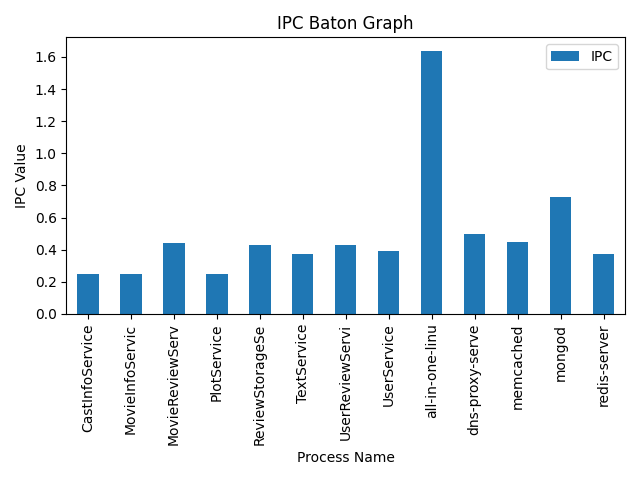
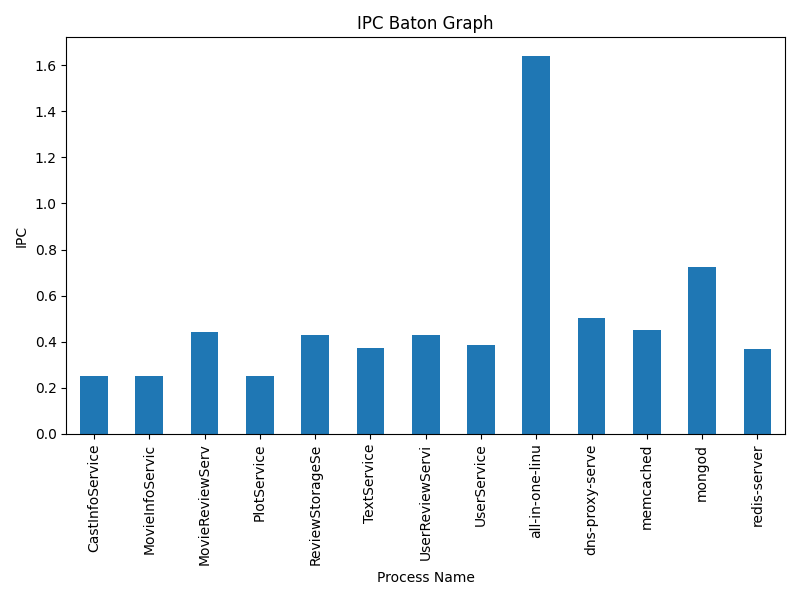
Final data aggregation script.

Changed region(s): [[0.0, 0.0, 1.0, 0.9688], [0.7188, 0.4688, 0.8438, 0.5625], [0.8438, 0.4062, 0.9062, 0.4688]]

diff --git a/aggregate_results.py b/aggregate_results.py
@@ -1,109 +1,142 @@
 import os
+import random
 import sys
 
 import matplotlib.pyplot as plt
 import pandas as pd
 
 
-def aggregate():
-    input_dir, output_file = sys.argv[1], sys.argv[2] + ".csv"
-    output = open(output_file, 'w')
-    output.write("Process name, PID, instance #, # instructions, # cycles, # i-cache misses\n")
-    process_map = {}
-    for filename in os.listdir(input_dir):
-        process_name = filename.split('_')[0]
-        pid = filename.split('_')[1]
-        if process_name not in process_map:
-            process_map[process_name] = 1
-        else:
-            process_map[process_name] += 1
+def read_files_from_dir(_input_dir, file_suffix):
+    for filename in os.listdir(_input_dir):
+        if file_suffix in filename:
+            yield filename
 
-        file = open(input_dir + '/' + filename, 'r')
+
+def write_to_csv(output_file, header, rows):
+    with open(output_file, 'w') as file:
+        file.write(header)
+        for row in rows:
+            file.write(','.join(map(str, row)) + '\n')
+
+
+def extract_metrics_from_file(_input_dir, filename, process_map):
+    process_name, pid = filename.split('_')[0:2]
+    process_map[process_name] = process_map.get(process_name, 0) + 1
+
+    with open(os.path.join(_input_dir, filename), 'r') as file:
         lines = file.readlines()
-        if " Performance counter stats for process id '" + pid + "':\n" not in lines:
-            print("Error: " + filename + " does not contain performance counter stats")
-            continue
-        useful_lines = lines[lines.index(" Performance counter stats for process id '" + pid + "':\n") + 2:]
 
-        instructions = useful_lines[0].split()[0]
-        cycles = useful_lines[1].split()[0]
-        cache_misses = useful_lines[2].split()[0]
+    pid_line = " Performance counter stats for process id '" + pid + "':\n"
+    if pid_line not in lines:
+        print(f"Error: {filename} does not contain performance counter stats")
+        return None
 
-        output.write(process_name + ',' + pid + ',' + str(process_map[process_name]) + ',' + instructions + ','
-                     + cycles + ',' + cache_misses + '\n')
-        file.close()
-    output.close()
+    useful_lines = lines[lines.index(pid_line) + 2:]
+    return [process_name, pid, process_map[process_name]] + [line.split()[0] for line in useful_lines[:3]]
+
+
+def aggregate_CPU_metrics(_input_dir, output_file):
+    output_file += ".csv"
+    header = "Process name, PID, instance #, # instructions, # cycles, # i-cache misses\n"
+    process_map = {}
+    rows = [extract_metrics_from_file(_input_dir, filename, process_map)
+            for filename in read_files_from_dir(_input_dir, "CPU.out") if
+            extract_metrics_from_file(_input_dir, filename, process_map) is not None]
+
+    write_to_csv(output_file, header, rows)
+    return output_file
+
+
+def aggregate_topdown_metrics(_input_dir, output_file):
+    output_file += "_topdown.csv"
+    header = "Process ID, Retiring, Bad Speculation, Frontend Bound, Backend Bound\n"
+    rows = []
+
+    for filename in read_files_from_dir(_input_dir, "topdown.out"):
+        with open(os.path.join(_input_dir, filename), 'r') as file:
+            lines = file.readlines()
+
+        # Finding the line with process ID
+        for i, line in enumerate(lines):
+            if "Performance counter stats for process id" in line:
+                pid = line.split("'")[1]  # Extracting the process ID
+                # Assuming the metrics are in the line immediately after the next line
+                metrics_line = lines[i + 3]
+                metrics = metrics_line.split()
+                # Extracting only the required metrics
+                retiring, bad_spec, frontend_bound, backend_bound = metrics[0], metrics[1], metrics[2], metrics[3]
+                # TODO remove this /Done
+                # pid = random.randint(0, 100)
+
+                rows.append([pid, retiring, bad_spec, frontend_bound, backend_bound])
+                break  # Assuming one set of metrics per file
+
+    write_to_csv(output_file, header, rows)
 
 
 def sort_db(file):
-    _file = open(file, 'r')
-    lines = _file.readlines()[1:]
-    _file.close()
-    # group by process name and sort by instance #
-    lines.sort(key=lambda x: (x.split(',')[0], int(x.split(',')[2])))
-    # filter out the lines that have <not in them
-    lines = list(filter(lambda x: '<not' not in x, lines))
-    _file = open(file, 'w')
-    _file.write("Process name, PID, instance #, # instructions, # cycles, # i-cache misses\n")
-    for line in lines:
-        _file.write(line)
-    _file.close()
+    df = pd.read_csv(file)
+    df = df[df[' # instructions'].str.contains('<not') == False]
+    df.sort_values(by=['Process name', ' instance #'], inplace=True)
+    df.to_csv(file, index=False)
 
 
 def plot_baton_graph(file):
     try:
         df = pd.read_csv(file)
+        df['IPC'] = pd.to_numeric(df[' # instructions'], errors='coerce') / pd.to_numeric(df[' # cycles'],
+                                                                                          errors='coerce')
+        df['MPKI'] = pd.to_numeric(df[' # i-cache misses'], errors='coerce') / pd.to_numeric(df[' # instructions'],
+                                                                                             errors='coerce') * 1000
+        df = df.groupby('Process name').mean()
 
-        df.columns = df.columns.str.strip()
+        for metric in ['IPC', 'MPKI']:
+            plt.figure(figsize=(8, 6))
+            df[metric].plot.bar(rot=90)
+            plt.xlabel("Process Name")
+            plt.ylabel(metric)
+            plt.title(f"{metric} Baton Graph")
+            plt.tight_layout()
+            plt.savefig(f"{metric.lower()}_baton_graph.png")
 
-        expected_columns = ['Process name', 'instance #', '# instructions', '# cycles', '# i-cache misses']
-        for col in expected_columns:
-            if col not in df.columns:
-                raise ValueError(f"Column '{col}' not found in the CSV file.")
+    except Exception as e:
+        print(f"An error occurred: {e}")
 
-        # Data processing
-        df = df.sort_values(by=['Process name', 'instance #'])
-        df = df.reset_index(drop=True)
-        df['# instructions'] = pd.to_numeric(df['# instructions'], errors='coerce')
-        df['# cycles'] = pd.to_numeric(df['# cycles'], errors='coerce')
-        df['# i-cache misses'] = pd.to_numeric(df['# i-cache misses'], errors='coerce')
 
-        df['IPC'] = df['# instructions'] / df['# cycles']
-        df['MPKI'] = df['# i-cache misses'] / df['# instructions'] * 1000
+def plot_baton_graph_topdown(file):
+    try:
+        # Reading the CSV file
+        df = pd.read_csv(file)
 
-        # Group by process name and calculate mean
-        df = df.groupby(['Process name']).mean()
-        df = df.reset_index()
+        # Convert percentage strings to float
+        for col in [' Retiring', ' Bad Speculation', ' Frontend Bound', ' Backend Bound']:
+            df[col] = df[col].str.rstrip('%').astype('float') / 100
 
-        # Rounding off the calculated values
-        df['IPC'] = df['IPC'].round(2)
-        df['MPKI'] = df['MPKI'].round(2)
+        # Plotting
+        fig, ax = plt.subplots(figsize=(8, 6))
+        colors = ['#3498db', '#e74c3c', '#2ecc71', '#f1c40f']
+        bottom = [0] * len(df)
 
-        # Plotting IPC
-        ipc_df = df[['Process name', 'IPC']].set_index('Process name')
-        plt.figure(figsize=(12, 6))
-        ax_ipc = ipc_df.plot.bar(rot=90)  # Rotate the labels vertically
-        ax_ipc.set_xlabel("Process Name")
-        ax_ipc.set_ylabel("IPC Value")
-        ax_ipc.set_title("IPC Baton Graph")
+        for idx, col in enumerate([' Frontend Bound', ' Bad Speculation', ' Backend Bound', ' Retiring']):
+            ax.bar(df['Process ID'], df[col], bottom=bottom, label=col, color=colors[idx])
+            bottom = [bottom[i] + df[col].iloc[i] for i in range(len(df))]
+
+        ax.set_xlabel('Process ID')
+        ax.set_ylabel('Metrics')
+        ax.set_title('Topdown Metrics Baton Graph')
+        plt.xticks(rotation=90)
+        ax.legend()
         plt.tight_layout()
-        plt.savefig("ipc_baton_graph.png")
-
-        # Plotting MPKI
-        mpki_df = df[['Process name', 'MPKI']].set_index('Process name')
-        plt.figure(figsize=(12, 6))
-        ax_mpki = mpki_df.plot.bar(rot=90)
-        ax_mpki.set_xlabel("Process Name")
-        ax_mpki.set_ylabel("MPKI Value")
-        ax_mpki.set_title("MPKI Baton Graph")
-        plt.tight_layout()
-        plt.savefig("mpki_baton_graph.png")
+        plt.savefig("topdown_metrics_baton_graph.png")
 
     except Exception as e:
         print(f"An error occurred: {e}")
 
 
 if __name__ == '__main__':
-    aggregate()
-    sort_db(sys.argv[2] + ".csv")
-    plot_baton_graph(sys.argv[2] + ".csv")
+    input_dir, base_output_file = sys.argv[1], sys.argv[2]
+    cpu_csv = aggregate_CPU_metrics(input_dir, base_output_file)
+    sort_db(cpu_csv)
+    plot_baton_graph(cpu_csv)
+    aggregate_topdown_metrics(input_dir, base_output_file)
+    plot_baton_graph_topdown(base_output_file + "_topdown.csv")
